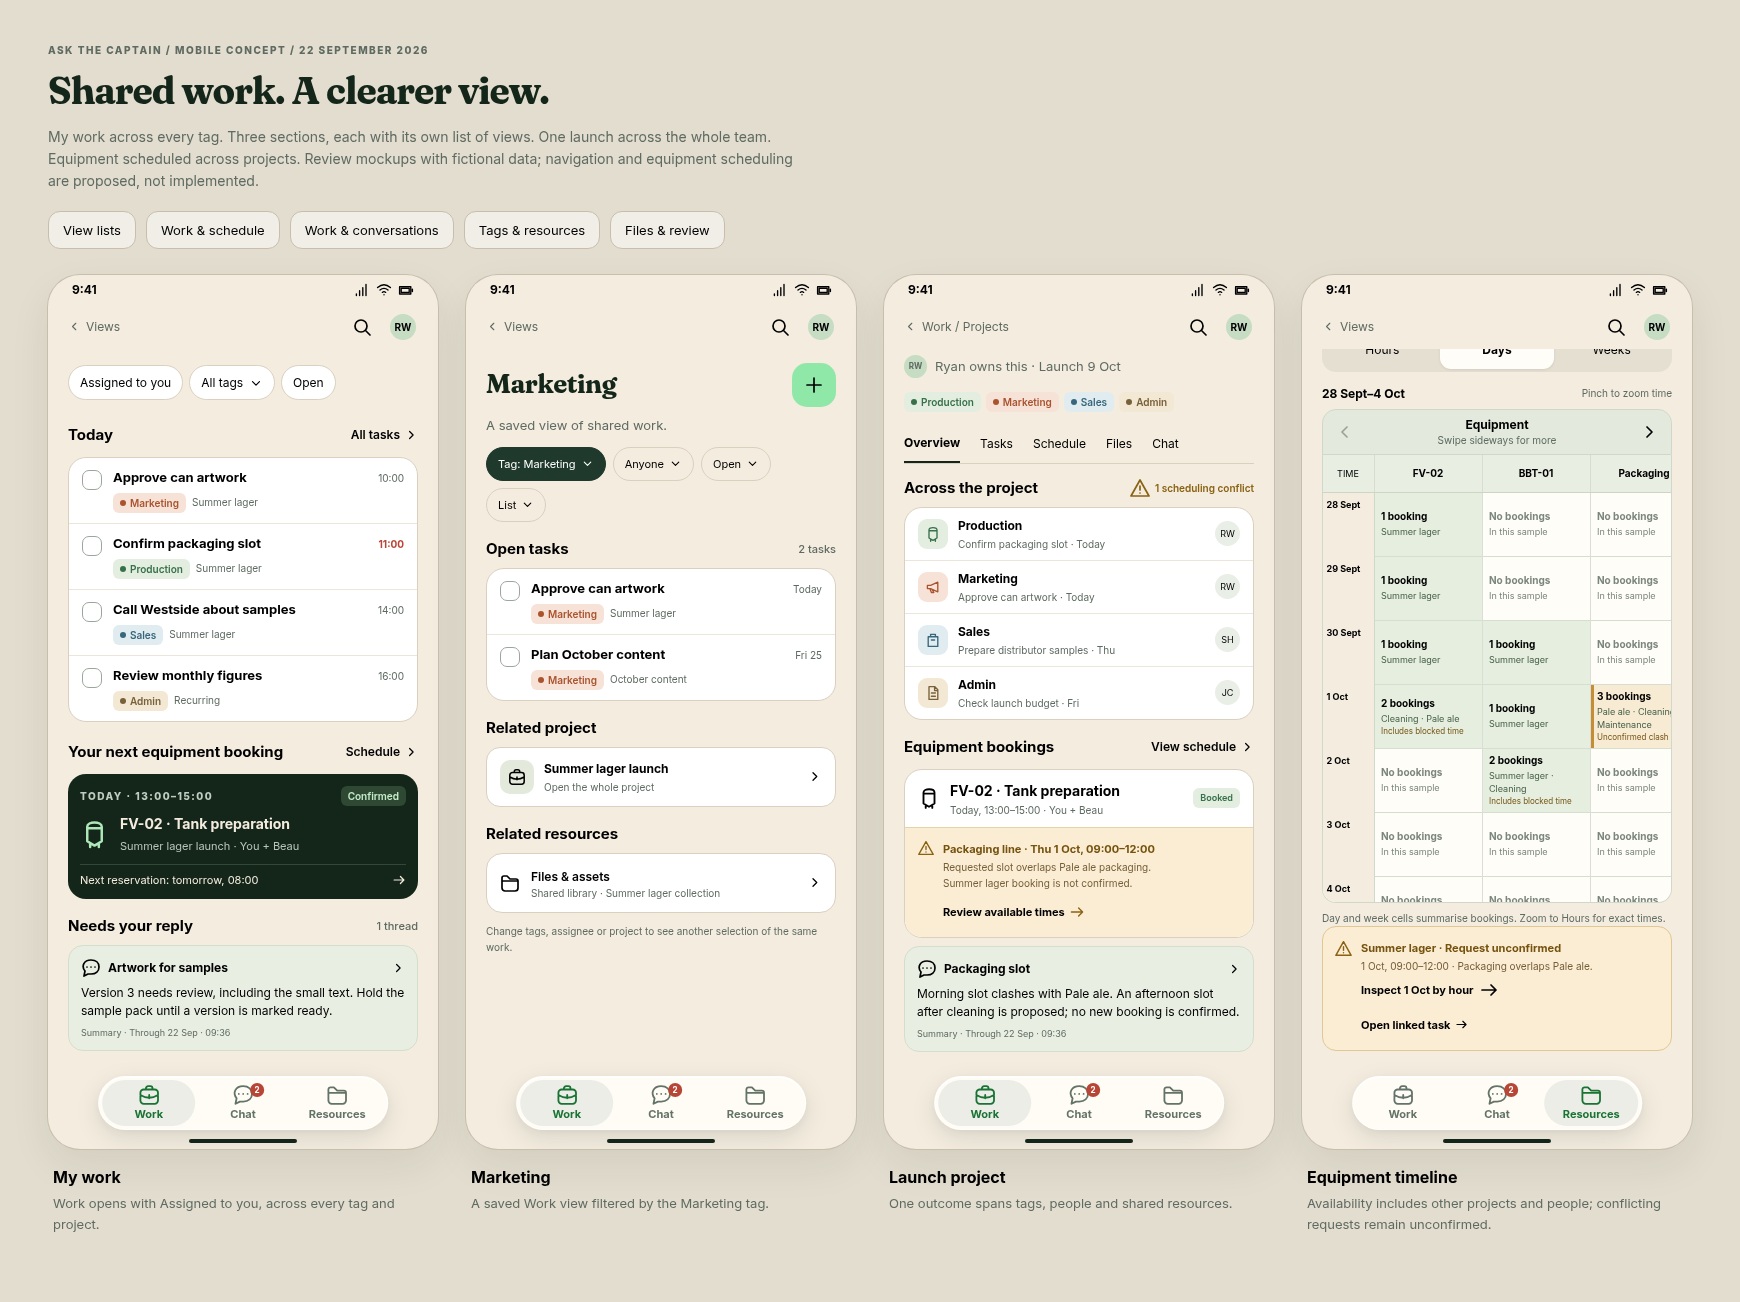
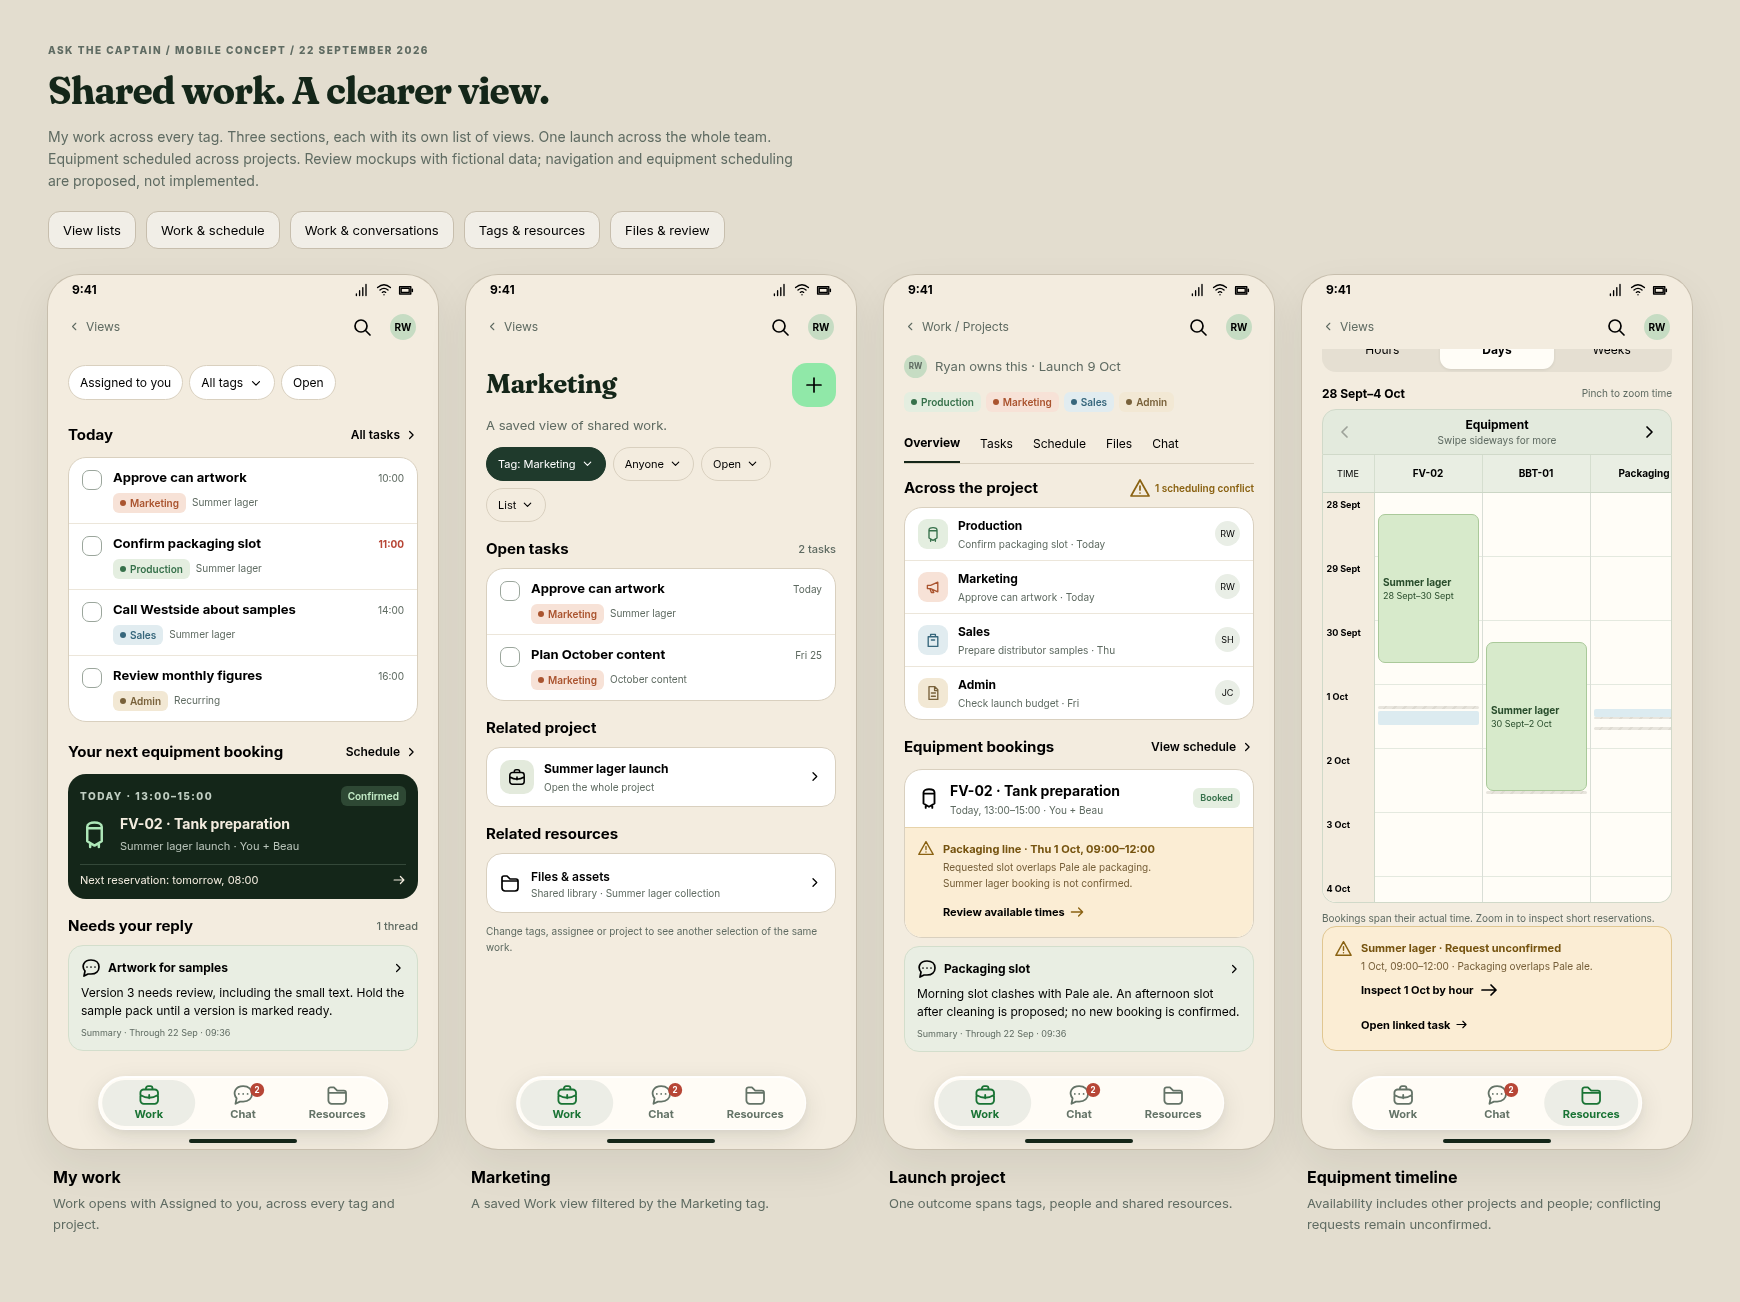
docs(design): show continuous bookings at every timeline scale

Changed region(s): [[0.7759, 0.3687, 0.9621, 0.6452], [0.7759, 0.6759, 0.9621, 0.7066], [0.931, 0.4301, 0.9621, 0.4608]]

diff --git a/docs/proposals/assets/captain-mobile-2026-09-22/equipment-timeline.js b/docs/proposals/assets/captain-mobile-2026-09-22/equipment-timeline.js
@@ -21,7 +21,7 @@ function equipmentTimeline({icon,link}){
     <div class="allocation-range"><strong data-range>28 Sep–4 Oct</strong><span>Pinch to zoom time</span></div>
     <div class="equipment-navigation"><button data-equipment-shift="-1" aria-label="Previous equipment">${icon('back')}</button><span>Equipment <small>Swipe sideways for more</small></span><button data-equipment-shift="1" aria-label="Next equipment">${icon('chevron')}</button></div>
     <div class="allocation-scroll" tabindex="0" role="region" aria-label="Equipment timeline; scroll sideways for equipment and vertically for time"><div class="allocation-canvas"></div></div>
-    <p class="allocation-note">Day and week cells summarise bookings. Zoom to Hours for exact times.</p>
+    <p class="allocation-note">Bookings span their actual time. Zoom in to inspect short reservations.</p>
     <div class="request-alert">${icon('alert')}<div><strong>Summer lager · Request unconfirmed</strong><p>1 Oct, 09:00–12:00 · Packaging overlaps Pale ale.</p><button class="timeline-detail-link" data-focus-conflict>Inspect 1 Oct by hour ${icon('arrow')}</button><a href="${link('task')}">Open linked task ${icon('arrow')}</a></div></div>`;
 }
 function mountEquipmentTimeline(phone,{icon}){
@@ -46,10 +46,13 @@ function mountEquipmentTimeline(phone,{icon}){
     const ticks=scale==='hours'?Array.from({length:28*24},(_,i)=>`<span style="top:${i*24}px">${i%24===0?date(i/24):String(i%24).padStart(2,'0')+':00'}</span>`).join(''):Array.from({length:28/step},(_,i)=>`<span style="top:${i*step*h}px">${date(i*step)}${scale==='weeks'?'<small>7 days</small>':''}</span>`).join('');
     const lanes=equipmentFixture.names.map((_,r)=>{
       const entries=equipmentFixture.bookings.map((b,i)=>({...b,id:i})).filter(b=>b.resource===r);
-      const blocks=scale==='hours'?entries.map(b=>`<button class="allocation-booking ${b.kind}" data-booking="${b.id}" style="top:${b.start*h}px;height:${Math.max(22,(b.end-b.start)*h)}px" aria-label="${equipmentFixture.names[r]} · ${bookingLabel(b)}"><strong>${b.title}</strong>${(b.end-b.start)*h>=36?`<small>${Math.floor(b.end)>Math.floor(b.start)?date(b.start)+'–'+date(b.end):clock(b.start)+'–'+clock(b.end)}</small>`:''}</button>`).join(''):
-        Array.from({length:28/step},(_,i)=>{const start=i*step,end=start+step;const busy=entries.filter(b=>b.start<end&&b.end>start);return `<button class="allocation-cell ${busy.length?'busy':'empty'} ${r===2&&start<=3&&end>3?'has-conflict':''}" data-period="${start}" data-resource="${r}" aria-label="${equipmentFixture.names[r]} · ${date(start)}${step>1?'–'+date(end-1):''} · ${busy.length} bookings${r===2&&start<=3&&end>3?' · Unconfirmed clash':''}; inspect hourly" style="top:${start*h}px;height:${step*h}px"><strong>${busy.length?busy.length+' booking'+(busy.length>1?'s':''):'No bookings'}</strong><small>${busy.length?[...new Set(busy.map(b=>b.title))].join(' · '):'In this sample'}</small>${r===2&&start<=3&&end>3?'<span class="blocked-mark">Unconfirmed clash</span>':busy.some(b=>b.kind==='blocked')?'<span class="blocked-mark">Includes blocked time</span>':''}</button>`;}).join('');
+      const blocks=entries.map(b=>{
+        const height=(b.end-b.start)*h;
+        return `<button class="allocation-booking ${b.kind}${height<18?' brief':''}" data-booking="${b.id}" style="top:${b.start*h}px;height:${height}px" aria-label="${equipmentFixture.names[r]} · ${bookingLabel(b)}" title="${bookingLabel(b)}">${height>=18?`<strong>${b.title}</strong>`:''}${height>=36?`<small>${Math.floor(b.end)>Math.floor(b.start)?date(b.start)+'–'+date(b.end):clock(b.start)+'–'+clock(b.end)}</small>`:''}</button>`;
+      }).join('');
+      const conflict=r===2?`<button class="allocation-conflict" data-conflict-marker style="top:${(3+9/24)*h}px" aria-label="Unconfirmed Summer lager request clashes on 1 October; inspect by hour" title="Unconfirmed request · 1 Oct, 09:00–12:00">!</button>`:'';
       const available=r===2&&scale==='hours'?`<button class="allocation-booking free" data-sheet="available-slot" style="top:${(3+13/24)*h}px;height:${3/24*h}px"><strong>Available</strong><small>13:00–16:00</small></button>`:'';
-      return `<div class="allocation-lane">${blocks}${available}</div>`;
+      return `<div class="allocation-lane">${blocks}${available}${conflict}</div>`;
     }).join('');
     canvas.innerHTML=header+`<div class="allocation-body" style="height:${28*h}px;--tick:${scale==='hours'?24:step*h}px"><div class="allocation-axis">${ticks}</div>${lanes}</div>`;
     phone.querySelectorAll('[data-scale]').forEach(b=>b.setAttribute('aria-pressed',String(b.dataset.scale===scale)));
@@ -65,11 +68,12 @@ function mountEquipmentTimeline(phone,{icon}){
   }
   phone.querySelectorAll('[data-scale]').forEach(b=>b.addEventListener('click',()=>zoom(b.dataset.scale)));
   phone.querySelectorAll('[data-equipment-shift]').forEach(b=>b.addEventListener('click',()=>{viewport.scrollLeft+=Number(b.dataset.equipmentShift)*108;updateRange();}));
-  phone.querySelector('[data-focus-conflict]').addEventListener('click',()=>{scale='hours';render();viewport.scrollTop=(3+8/24)*dayHeights.hours;viewport.scrollLeft=216;updateRange();});
+  function focusConflict(){scale='hours';render();viewport.scrollTop=(3+8/24)*dayHeights.hours;viewport.scrollLeft=216;updateRange();}
+  phone.querySelector('[data-focus-conflict]').addEventListener('click',focusConflict);
   viewport.addEventListener('click',e=>{
     if(dragged){e.preventDefault();e.stopImmediatePropagation();dragged=false;return;}
     const booking=e.target.closest('[data-booking]');if(booking)showBooking(bookingLabel(equipmentFixture.bookings[Number(booking.dataset.booking)]));
-    const period=e.target.closest('[data-period]');if(period){const start=Number(period.dataset.period),r=Number(period.dataset.resource);scale='hours';render();viewport.scrollTop=(start+8/24)*dayHeights.hours;viewport.scrollLeft=Math.min(r*108,viewport.scrollWidth-viewport.clientWidth);updateRange();}
+    if(e.target.closest('[data-conflict-marker]'))focusConflict();
   },true);
   viewport.addEventListener('scroll',()=>{if(!scheduled){scheduled=true;requestAnimationFrame(()=>{updateRange();scheduled=false;});}});
   // Touch pan and pinch apply only inside this chart; page zoom elsewhere is unaffected.

diff --git a/docs/proposals/assets/captain-mobile-2026-09-22/equipment-timeline.css b/docs/proposals/assets/captain-mobile-2026-09-22/equipment-timeline.css
@@ -18,12 +18,6 @@
 .allocation-axis>span{position:absolute;left:4px;right:2px;padding-top:5px;line-height:13px}
 .allocation-axis small{display:block;color:#5f6b62;font-weight:400}
 .allocation-lane{position:relative;border-right:1px solid #d9ded6;background:repeating-linear-gradient(to bottom,transparent 0,transparent calc(var(--tick) - 1px),#e4e9df calc(var(--tick) - 1px),#e4e9df var(--tick))}
-.allocation-cell{position:absolute;left:0;width:100%;border-bottom:1px solid #d5decf;text-align:left;padding:5px 6px;overflow:hidden;font-size:10px;background:#e6efdf}
-.allocation-cell strong,.allocation-cell small{display:block;line-height:13px}
-.allocation-cell small{font-size:9px;color:#476049;margin-top:2px}
-.allocation-cell.empty{background:#fffdf7;color:#7b877d;font-weight:400}
-.allocation-cell.empty small{color:#7b877d}
-.blocked-mark{font-size:8px;color:#775719;display:block;margin-top:1px}
 .allocation-booking{position:absolute;left:3px;right:3px;overflow:hidden;text-align:left;border:1px solid #aac99a;border-radius:7px;padding:3px 4px;font-size:10px;background:#d7eacb;color:#294d2c}
 .allocation-booking strong,.allocation-booking small{display:block;line-height:13px}
 .allocation-booking small{font-size:9px}
@@ -40,4 +34,5 @@
 .summary-label{font-size:9px;line-height:14px;color:#5f6b62}
 .star-conversation{font-size:12px;min-height:44px;border:1px solid #d9d0bf;border-radius:13px;padding:0 12px;margin-top:10px}
 
-.allocation-cell.has-conflict{background:#f8ebd3;box-shadow:inset 3px 0 #c58d34}
+.allocation-booking.brief{padding:0;border:0;border-radius:2px}
+.allocation-conflict{position:absolute;right:1px;width:18px;height:18px;transform:translateY(-50%);display:grid;place-items:center;border-radius:50%;background:#f6d89f;border:1px solid #bf8127;color:#744a0a;font-size:11px;font-weight:800;padding:0;z-index:1}

diff --git a/docs/proposals/2026-09-22-captain-and-pip.md b/docs/proposals/2026-09-22-captain-and-pip.md
@@ -81,8 +81,10 @@ Pinch apart to see finer time detail (hours); pinch together to see days, weeks 
 longer planning periods. Explicit Hours/Days/Weeks controls provide the same choices without a
 gesture. Zoom keeps the date under the gesture midpoint in place, subject to the loaded range
 boundaries; it never changes bookings. Preserve the equipment position and selected reservation.
-Day/week cells summarise the underlying intervals rather than pretending an entire day is
-occupied or free. Selecting a period drills into hours; conflict links focus the relevant
+Hours, days and weeks all use the same continuous booking bars, positioned and sized by their
+actual start/end times. A reservation spanning days remains one bar across the date lines. Short
+reservations become thin marks as you zoom out; labels appear when space permits and exact
+intervals remain accessible by selecting the bar or zooming in. Conflict markers focus the relevant
 equipment and date. Exact start/end times, setup/cleaning/maintenance and unconfirmed requests
 remain inspectable at every scale. Unknown or unloaded periods must never look available.
 
@@ -513,7 +515,7 @@ production workflows as a consequence of opening or merging a discussion proposa
 |---|---|
 | Product split | Walk through email-to-project, a personal reminder, a recurring business obligation and a daily brief; identify one authority and fewer user decisions in each. |
 | Captain mobile workspace | Start at Work filtered to you, return left to its grouped view list, and select Marketing by tag. Repeat the list-to-view path for Chat and Resources; follow project → equipment, task ↔ conversation and asset ↔ task. Verify visible tag/project/person scope, the three-tab bar, conflict visibility and shared record identity. Prove native back navigation and per-tab state restoration before implementation is accepted. |
-| Equipment scheduling | Required: show a multi-day resource timeline with horizontal equipment navigation, midpoint-preserving pinch and button zoom across hours/days/weeks, source intervals behind aggregates, long bookings and conflict visibility at every scale. Prove overlap prevention under concurrent writes, maintenance/turnaround blocking, timezone handling, changes and cancellation. Conflicting requests must never appear confirmed. |
+| Equipment scheduling | Required: show a multi-day resource timeline with horizontal equipment navigation, midpoint-preserving pinch and button zoom across hours/days/weeks, continuous interval bars at every scale, long bookings and conflict visibility at every scale. Prove overlap prevention under concurrent writes, maintenance/turnaround blocking, timezone handling, changes and cancellation. Conflicting requests must never appear confirmed. |
 | Conversation summaries and stars | Verify summary/source links from every discussion entry, source cut-off times, invalidation after edits/deletion/access changes, unavailable/stale states, participant following and private stars independent of notifications. |
 | Reminders | Create/edit/complete in both apps; verify selected-list scope, denied permission, recurrence and cross-device identity after resync. |
 | Shared search | Find real sent/received attachments from vague descriptions on two devices; measure retrieval quality, backfill, index size and sync conflicts without retained bodies/files/text. Test deletion, disconnect and an offline device returning. |

diff --git a/docs/proposals/assets/captain-mobile-2026-09-22/README.md b/docs/proposals/assets/captain-mobile-2026-09-22/README.md
@@ -115,14 +115,16 @@ time axis stay visible while scrolling the other dimension.
 Pinch apart to zoom into Hours, pinch together to zoom out through Days to Weeks. Buttons offer
 the same choices. The prototype anchors zoom to the date under the gesture midpoint (or viewport
 centre for buttons), clamped to its loaded range, and preserves horizontal equipment position.
-Day/week cells aggregate the same reservations; selecting one drills into its hourly context.
+Every scale uses continuous booking bars: a multi-day reservation spans date lines as one bar,
+with the same colours and hatched blocked time as Hours. Start position and length follow the
+actual interval; short reservations become thin marks when zoomed out. Selecting a bar opens
+its exact dates/times, and zooming in reveals the smaller labels.
 The conflict link focuses Packaging on 1 October. No gesture moves or creates a reservation.
 
 The prototype supports two-finger pinch and one-finger chart panning, horizontal arrow controls,
 mouse/trackpad scrolling and keyboard focus/scrolling. Page zoom remains available outside the
 chart. Native-device gesture behaviour, selection persistence, loading more dates/equipment and
-live scheduling remain acceptance work. The 28-day dataset is explicitly fictional; its “No
-bookings” cells describe only that sample, not live availability. Unknown/unloaded data must
+live scheduling remain acceptance work. The 28-day dataset is explicitly fictional; gaps describe only that sample, not live availability. Unknown/unloaded data must
 never look free in the application.
 
 ## Editable prototype
@@ -176,7 +178,8 @@ process model. Inventory remains a counted list, with no ledger or unrelated-uni
 The fifteen layouts are checked in shared Chromium with Playwright at 360, 390 and 430 CSS
 pixels, including overflow, three-tab labels/targets, scroll clearance, hidden list headings
 and compact record headings. Timeline checks include horizontal navigation, time-scale anchoring,
-conflict drill-down and Chromium touch pinch in both directions; physical-device testing remains
+conflict drill-down, continuous bar positions/durations at all three scales and phone widths,
+and Chromium touch pinch in both directions; physical-device testing remains
 outstanding. Contextual plus sheets and source-linked summary cards are also checked. Connected list/view/filter/task/chat/asset/equipment flows and
 preview sheets are exercised, and PNG exports inspected. Screen PNGs are 390 × 874; variants
 and galleries are captured separately. Both Mermaid maps are parsed and exported as SVG/PNG.

diff --git a/docs/proposals/assets/captain-mobile-2026-09-22/views.md b/docs/proposals/assets/captain-mobile-2026-09-22/views.md
@@ -40,7 +40,7 @@ and Inventory links open those shared resources. Availability continues to show 
 and projects' reservations, cleaning and maintenance; task filters cannot hide a clash.
 The timeline opens across days; equipment scrolls horizontally with header arrows and a visible
 next-column hint. Pinch or Hours/Days/Weeks controls change time detail around the current date.
-Day/week aggregates drill into exact intervals; a conflicting request remains unconfirmed. Inventory stays a counted list; bookings do not
+Continuous bars span their actual intervals at every scale; selecting one shows its exact times; a conflicting request remains unconfirmed. Inventory stays a counted list; bookings do not
 consume stock. Xero remains accounting authority, with links from business records.
 
 Search and account/settings belong in the header, outside the three-tab bar. Their detailed
